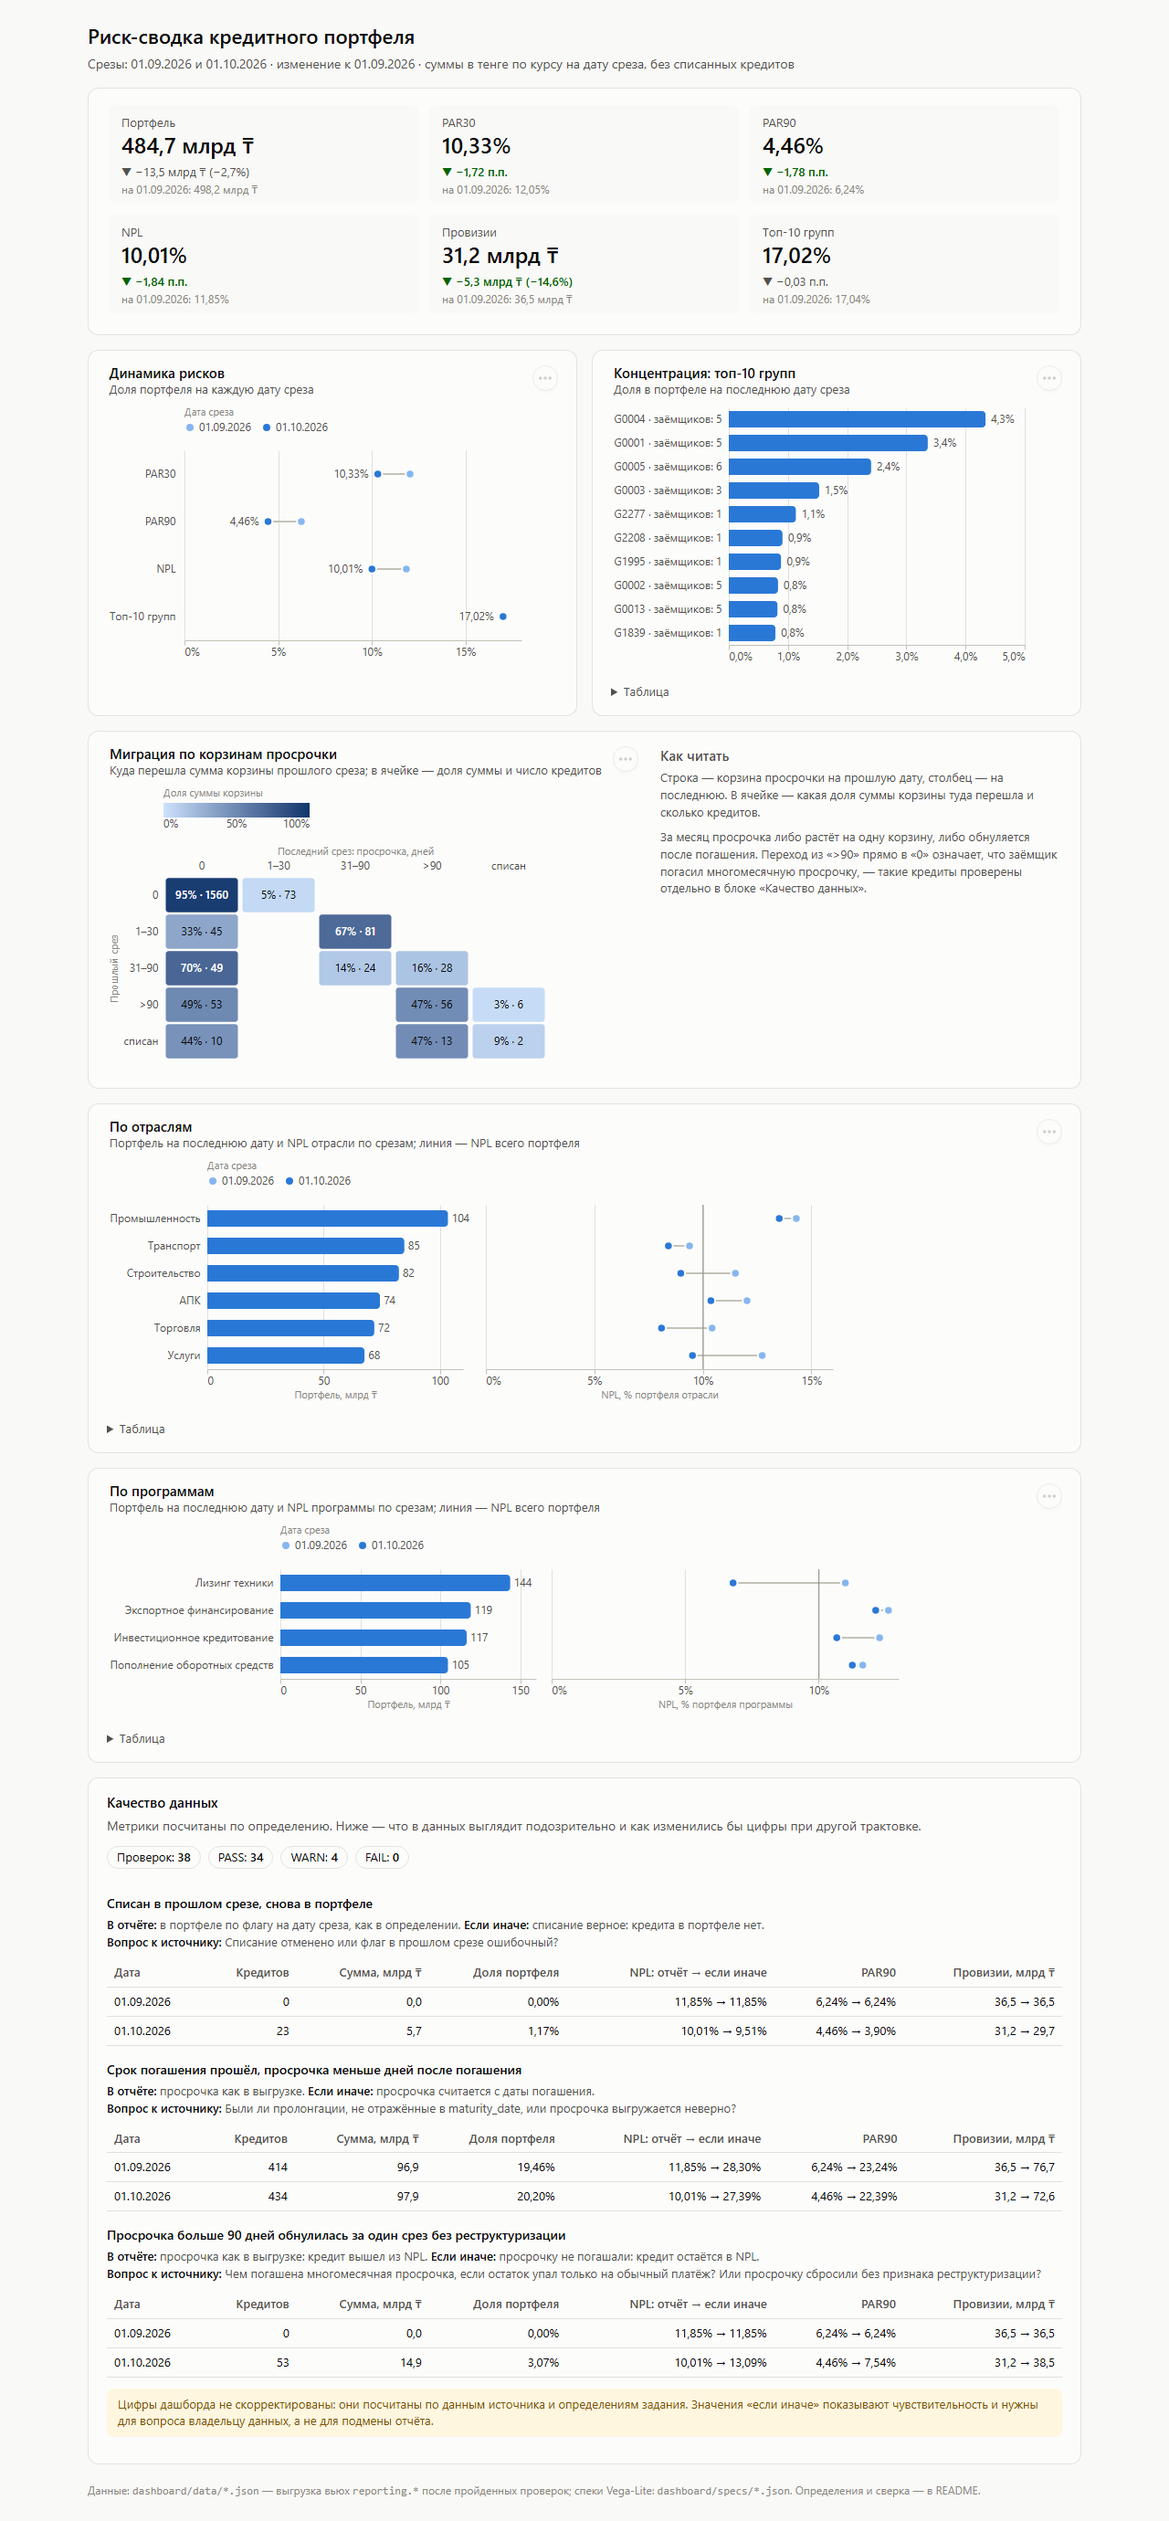
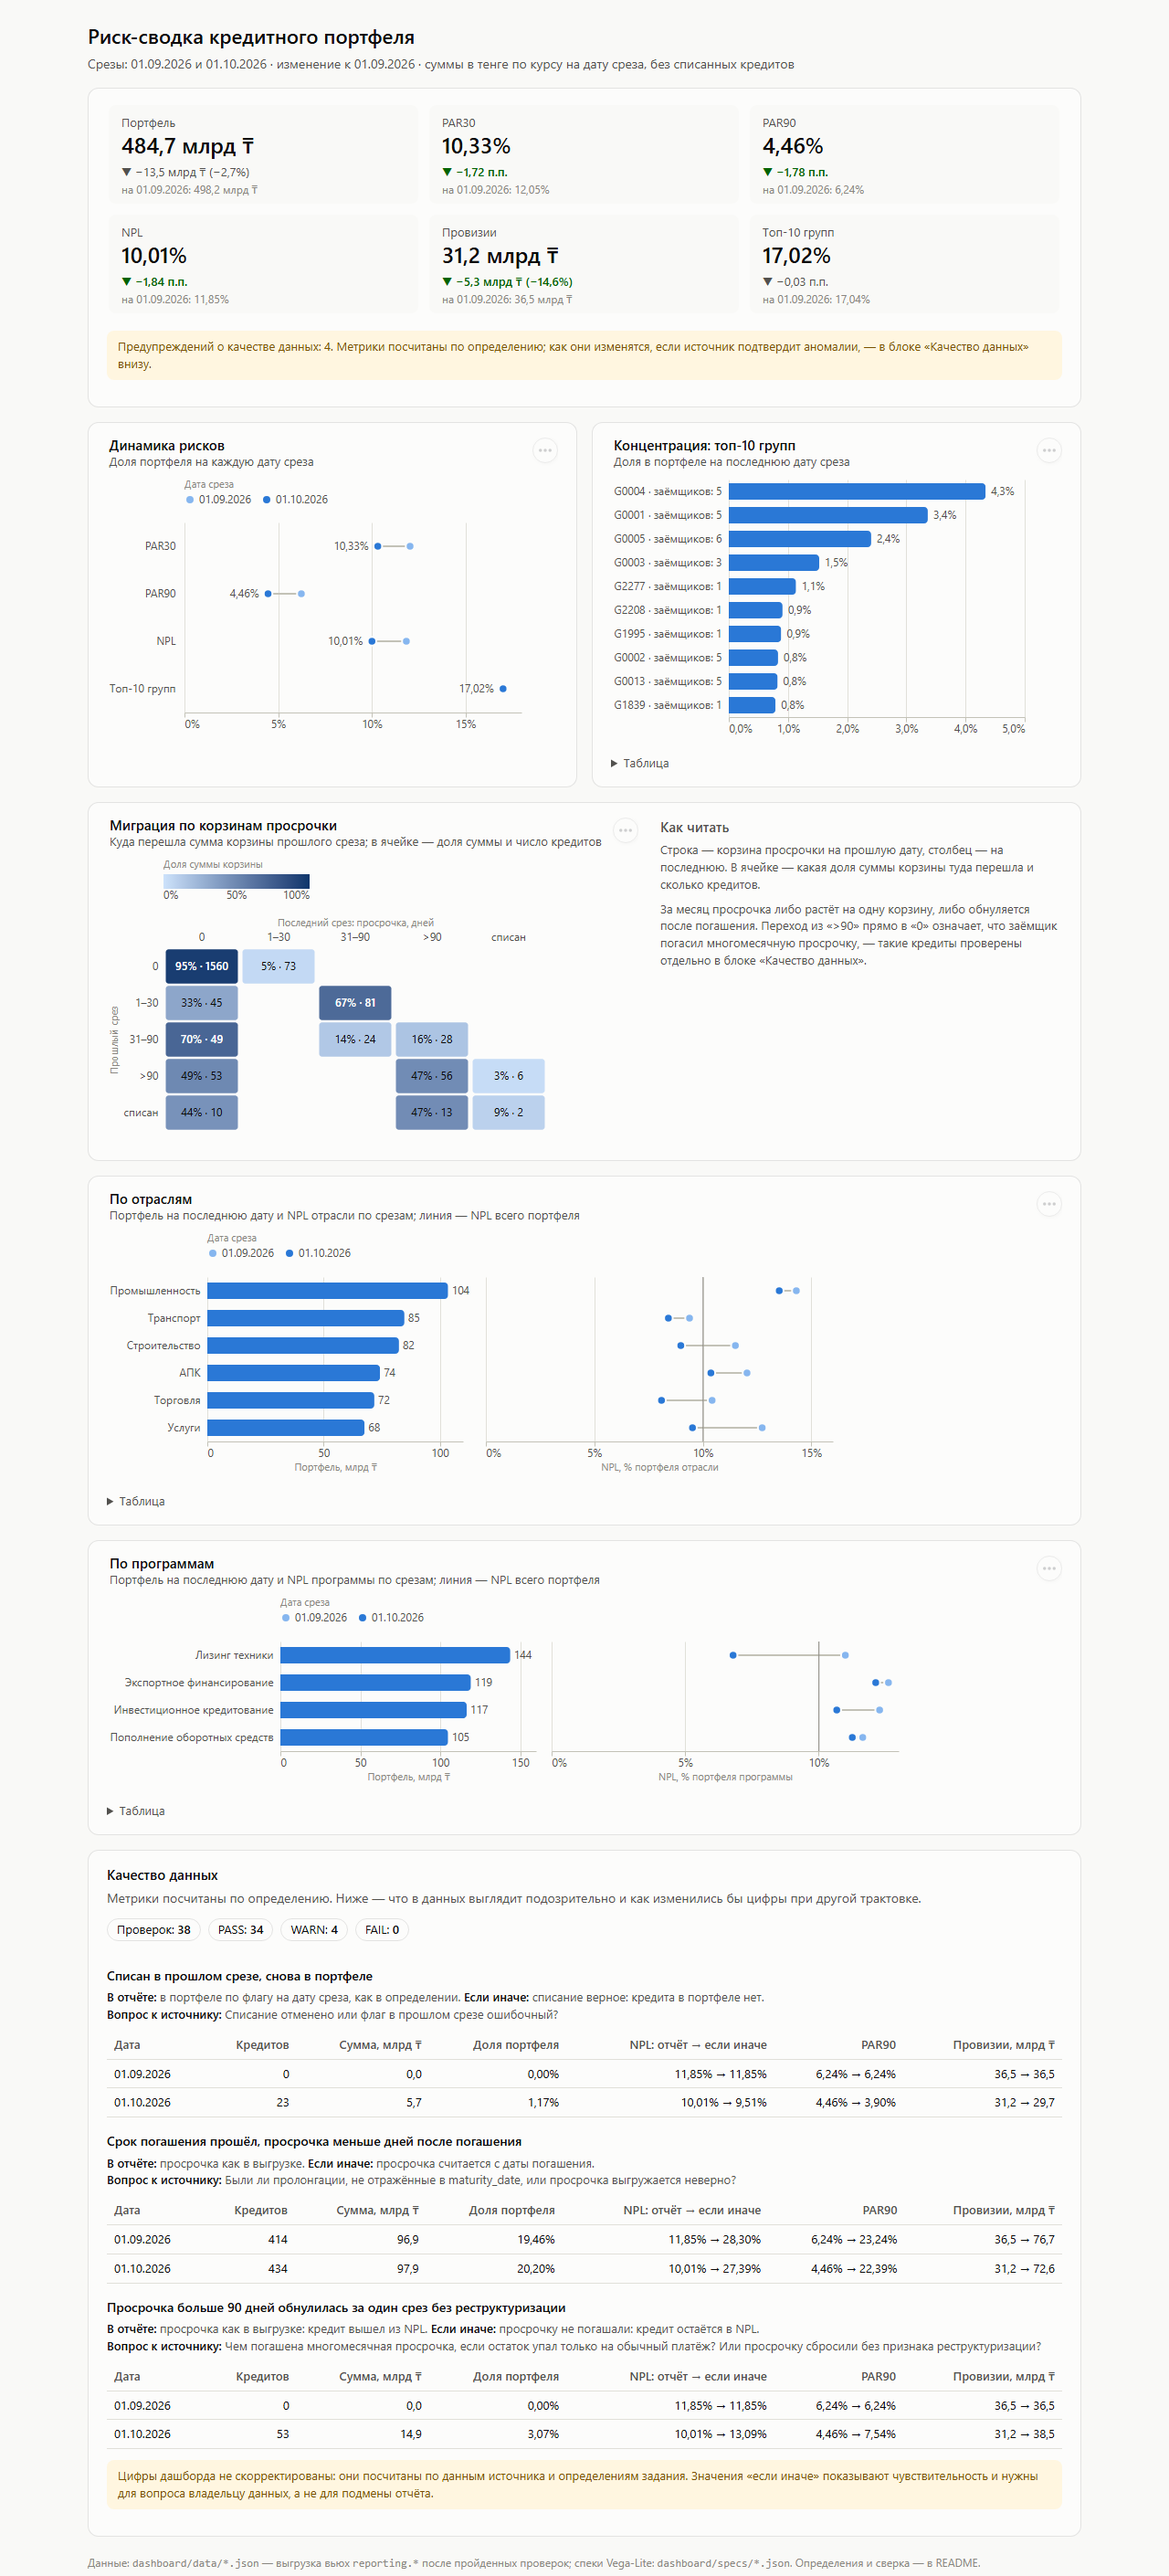
fix(dashboard): сноска о качестве данных под KPI
Плитка NPL показывала снижение на 1,84 п.п. зелёной стрелкой — как
безусловное улучшение, хотя вывод №1 в README говорит, что оно не
подтверждено данными. Под KPI теперь сноска из checks.json: число
предупреждений и ссылка на блок «Качество данных». Скриншот обновлён.

diff --git a/dashboard/index.html b/dashboard/index.html
@@ -132,6 +132,7 @@
 
   <section class="card">
     <div id="kpi" class="chart"></div>
+    <p class="note" id="kpi-note" hidden></p>
   </section>
 
   <div class="grid-2">
@@ -325,6 +326,14 @@
     ]);
 
     const count = (s) => checks.filter((c) => c.status === s).length;
+
+    // Зелёная стрелка у KPI не должна выглядеть безусловным улучшением, если есть предупреждения.
+    if (count("WARN") > 0) {
+      const note = document.getElementById("kpi-note");
+      note.hidden = false;
+      note.textContent = `Предупреждений о качестве данных: ${count("WARN")}. Метрики посчитаны по определению; ` +
+        "как они изменятся, если источник подтвердит аномалии, — в блоке «Качество данных» внизу.";
+    }
     document.getElementById("checks-summary").innerHTML =
       `<span class="pill">Проверок: <b>${checks.length}</b></span>` +
       `<span class="pill">PASS: <b>${count("PASS")}</b></span>` +
